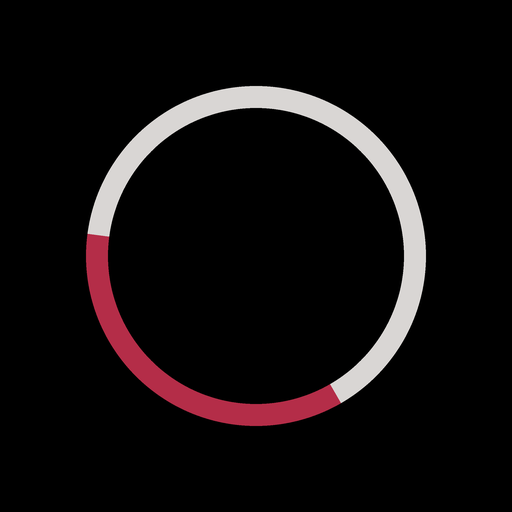
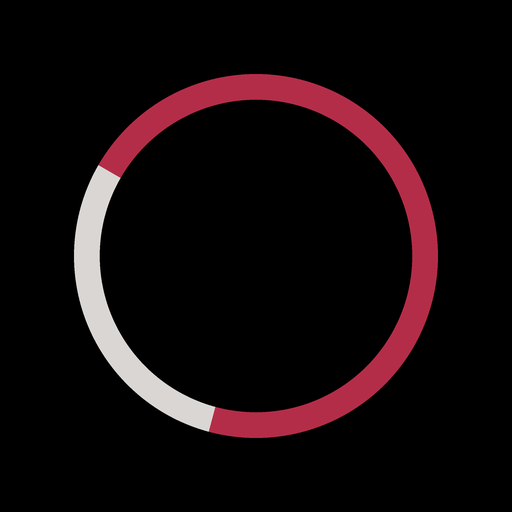
Put the dial back on a 12-hour face and check it against real ticks
The 24-hour version was geometrically nicer - a window crossing
midnight is one continuous arc rather than a shape that wraps - and
wrong for a reason that has nothing to do with geometry. Everyone reads
a circle with a mark on it as a clock, so 22:00 sitting at the 8
o'clock position looks like a mistake rather than like a different
scale. Back to twelve hours round once: 22:00 at the 10 o'clock
position, clockwise past midnight to 06:30 just left of the bottom.

Adds --debug, which draws hour ticks, labels and a radial line at each
end of the arc. It confirms 22:00 lands exactly on the 10 tick and
06:30 exactly between 6 and 7, and the sweep is 255 degrees, which is
the 8.5 hours it should be.

Band and diameter both up slightly - it was reading as a hairline at
home-screen size.

Changed region(s): [[0.125, 0.125, 0.875, 0.875]]

diff --git a/scripts/makeicon.py b/scripts/makeicon.py
@@ -1,20 +1,18 @@
 #!/usr/bin/env python3
 """
-Render the app icon: a thin 24-hour ring with the sleep window drawn on it.
+Render the app icon: a thin clock face with the sleep window drawn on the rim.
 
-A full day round once, not twelve hours round twice - so a sleep window that
-crosses midnight is one continuous arc instead of a shape that wraps and reads
-as two. The dial is oriented the way a day feels rather than the way a clock is
-built: midnight at the bottom, noon at the top, 06:00 at the left and 18:00 at
-the right, so the night sits along the bottom of the ring.
+Twelve hours round once, read like any clock: 12 at the top, 3 at the right, 6
+at the bottom, 9 at the left. The sleep window runs from 22:00 - the 10 o'clock
+position - clockwise past midnight to 06:30, which sits just left of the bottom.
+The waking hours take the rest of the rim in grey-white.
 
-No numbers, no hands, and the middle is empty. The only thing the ring says is
-which arc of the day is spent asleep, in bordeaux, with the waking hours in
-grey-white. The arc ends are square cuts across the ring rather than round caps,
-because it marks a boundary between two parts of a whole and not the end of a
-bar.
+No numbers, no hands, and the middle is empty. The arc ends are square cuts
+across the band rather than round caps, because they mark a boundary between two
+parts of a whole and not the end of a bar.
 
     python3 scripts/makeicon.py
+    python3 scripts/makeicon.py --debug   # ticks and hour labels, to check the maths
 
 Writes favicon.svg, icon-192.png, icon-512.png and apple-touch-icon.png into
 public/. Not run at build time - the icon changes about once.
@@ -22,10 +20,11 @@ public/. Not run at build time - the icon changes about once.
 import colorsys
 import math
 import pathlib
+import sys
 
-from PIL import Image, ImageDraw
+from PIL import Image, ImageDraw, ImageFont
 
-SS = 4  # supersample factor, for a clean edge on a ring this thin
+SS = 4  # supersample factor, for a clean edge on a band this thin
 CANVAS = 1024
 BACKGROUND = (0, 0, 0)
 
@@ -36,15 +35,14 @@ SLEEP_HSL = (348, 60, 44)
 # the bordeaux rather than as a gap in the ring.
 WAKING = (0xD9, 0xD6, 0xD4)
 
-# The window the ring describes, in hours on a 24-hour day.
+# The window the face describes, as times of day on a 24-hour clock. They are
+# reduced onto the 12-hour dial by angle() below.
 SLEEP_FROM = 22.0
 SLEEP_TO = 6.5
 
-# Outer edge and thickness, as fractions of the canvas. The ring is deliberately
-# a hairline against its own diameter - about 6% - which is what stops it
-# reading as a pie chart with a hole punched in it.
-OUTER = 0.332
-THICKNESS = 0.043
+# Outer edge and band thickness, as fractions of the canvas.
+OUTER = 0.355
+THICKNESS = 0.050
 
 
 def rgb(h, s, l):
@@ -54,13 +52,13 @@ def rgb(h, s, l):
 
 def angle(hour):
     """
-    Hour of the day to drawing degrees, where 0 is 3 o'clock and they run
-    clockwise.
+    Time of day to drawing degrees, where 0 is 3 o'clock and they run clockwise.
 
-    Anchored so 06:00 lands at the 9 o'clock position and 18:00 at the 3
-    o'clock position, which puts midnight at the bottom and noon at the top.
+    A 12-hour dial: each hour is 30 degrees, and the -90 puts 12 o'clock at the
+    top where a clock has it. 22:00 reduces to the 10 o'clock position (210) and
+    06:30 to just left of the bottom (105).
     """
-    return 180.0 + (hour - 6.0) * 15.0
+    return (hour % 12) * 30.0 - 90.0
 
 
 def _box(px, radius):
@@ -69,17 +67,22 @@ def _box(px, radius):
     return [c - r, c - r, c + r, c + r]
 
 
-def draw(px):
+def sweep():
+    """Start and end of the sleep arc in drawing degrees, end always after start."""
+    start = angle(SLEEP_FROM)
+    end = angle(SLEEP_TO)
+    if end <= start:
+        end += 360.0
+    return start, end
+
+
+def draw(px, debug=False):
     img = Image.new("RGB", (px, px), BACKGROUND)
     d = ImageDraw.Draw(img)
 
     outer = _box(px, OUTER)
     inner = _box(px, OUTER - THICKNESS)
-
-    start = angle(SLEEP_FROM)
-    end = angle(SLEEP_TO)
-    if end <= start:
-        end += 360.0
+    start, end = sweep()
 
     # Filled disc, sleep window cut into it, then the middle punched back out to
     # the page. Done in that order because it gives both arcs one shared radial
@@ -88,24 +91,45 @@ def draw(px):
     d.ellipse(outer, fill=WAKING)
     d.pieslice(outer, start, end, fill=rgb(*SLEEP_HSL))
     d.ellipse(inner, fill=BACKGROUND)
+
+    if debug:
+        _annotate(d, px)
     return img
 
 
-def png(px):
+def _annotate(d, px):
+    """Hour ticks and labels, so the arc ends can be checked against a real dial."""
+    c = px / 2.0
+    font = ImageFont.load_default(size=max(10, px // 40))
+    for h in range(12):
+        a = math.radians(angle(h))
+        r1, r2 = OUTER * px + 4, OUTER * px + 14
+        d.line(
+            [c + r1 * math.cos(a), c + r1 * math.sin(a),
+             c + r2 * math.cos(a), c + r2 * math.sin(a)],
+            fill=(90, 90, 90), width=max(1, px // 340),
+        )
+        rl = OUTER * px + 34
+        label = str(12 if h == 0 else h)
+        d.text((c + rl * math.cos(a), c + rl * math.sin(a)), label,
+               fill=(150, 150, 150), font=font, anchor="mm")
+    for hour, colour in ((SLEEP_FROM, (0, 200, 255)), (SLEEP_TO, (0, 255, 120))):
+        a = math.radians(angle(hour))
+        d.line([c, c, c + (OUTER * px) * math.cos(a), c + (OUTER * px) * math.sin(a)],
+               fill=colour, width=max(1, px // 300))
+
+
+def png(px, debug=False):
     """Draw oversized and downsample, which is cheaper than antialiasing by hand."""
-    return draw(px * SS).resize((px, px), Image.LANCZOS)
+    return draw(px * SS, debug).resize((px, px), Image.LANCZOS)
 
 
 def svg():
     c = CANVAS / 2.0
     w = THICKNESS * CANVAS
-    # Stroked from the centre line of the ring, so the radius is the mid-radius.
+    # Stroked from the centre line of the band, so this is the mid-radius.
     r = (OUTER * CANVAS) - w / 2.0
-
-    start = angle(SLEEP_FROM)
-    end = angle(SLEEP_TO)
-    if end <= start:
-        end += 360.0
+    start, end = sweep()
 
     def point(deg):
         rad = math.radians(deg)
@@ -129,7 +153,13 @@ def svg():
 
 
 def main():
-    out = pathlib.Path(__file__).resolve().parent.parent / "public"
+    root = pathlib.Path(__file__).resolve().parent.parent
+    if "--debug" in sys.argv:
+        out = root / "scripts" / "icon-debug.png"
+        png(512, debug=True).save(out)
+        print(f"wrote {out}")
+        return
+    out = root / "public"
     out.mkdir(exist_ok=True)
     png(192).save(out / "icon-192.png")
     png(512).save(out / "icon-512.png")

diff --git a/README.md b/README.md
@@ -70,19 +70,26 @@ the point furthest from when anyone sleeps, so a bedtime drifting from 21:00 to
 
 ## The icon
 
-A thin ring carrying one full day, not twelve hours round twice — so a sleep
-window that crosses midnight is a single continuous arc instead of a shape that
-wraps and reads as two. It is oriented the way a day feels rather than the way a
-clock is built: midnight at the bottom, noon at the top, 06:00 at the left and
-18:00 at the right, which puts the night along the bottom of the ring.
+A thin clock face with the sleep window drawn on the rim. Twelve hours round
+once and read like any clock — 12 at the top, 3 at the right — with the window
+running from 22:00 at the 10 o'clock position, clockwise past midnight, to 06:30
+just left of the bottom. The waking hours take the rest of the rim in grey-white.
 
-No numbers, no hands, empty in the middle. Bordeaux for the sleep window,
-grey-white for the waking hours, and square cuts across the ring where they meet
-rather than round caps — it is a boundary between two parts of a whole, not the
-end of a bar.
+No numbers, no hands, empty in the middle, and square cuts across the band where
+the two arcs meet rather than round caps — it is a boundary between two parts of
+a whole, not the end of a bar.
+
+A 24-hour dial was tried first, on the reasoning that a window crossing midnight
+is then one continuous arc rather than a shape that wraps. It is worse for a
+reason that has nothing to do with the geometry: everyone reads a circle with a
+mark on it as a clock, so 22:00 sitting at the 8 o'clock position looks like a
+mistake rather than like a different scale.
+
+`--debug` draws hour ticks, labels, and a radial line at each end of the arc, so
+the boundaries can be checked against a real dial instead of eyeballed:
 
 ```bash
-python3 scripts/makeicon.py
+python3 scripts/makeicon.py --debug
 ```
 
 Regenerate after changing `--primary` in `src/index.css` — the script carries
